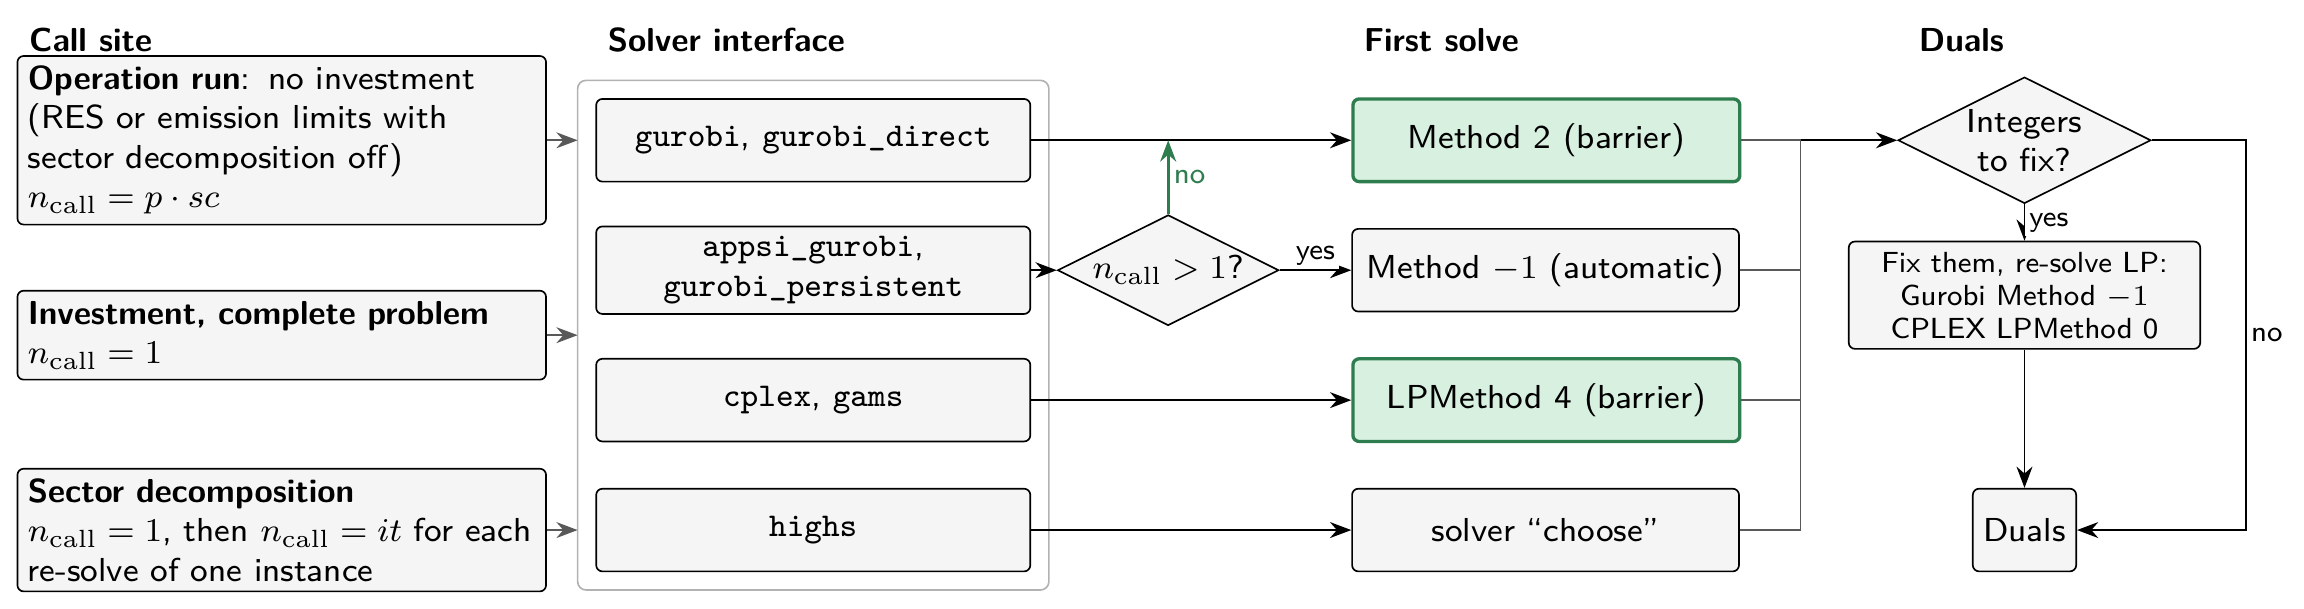
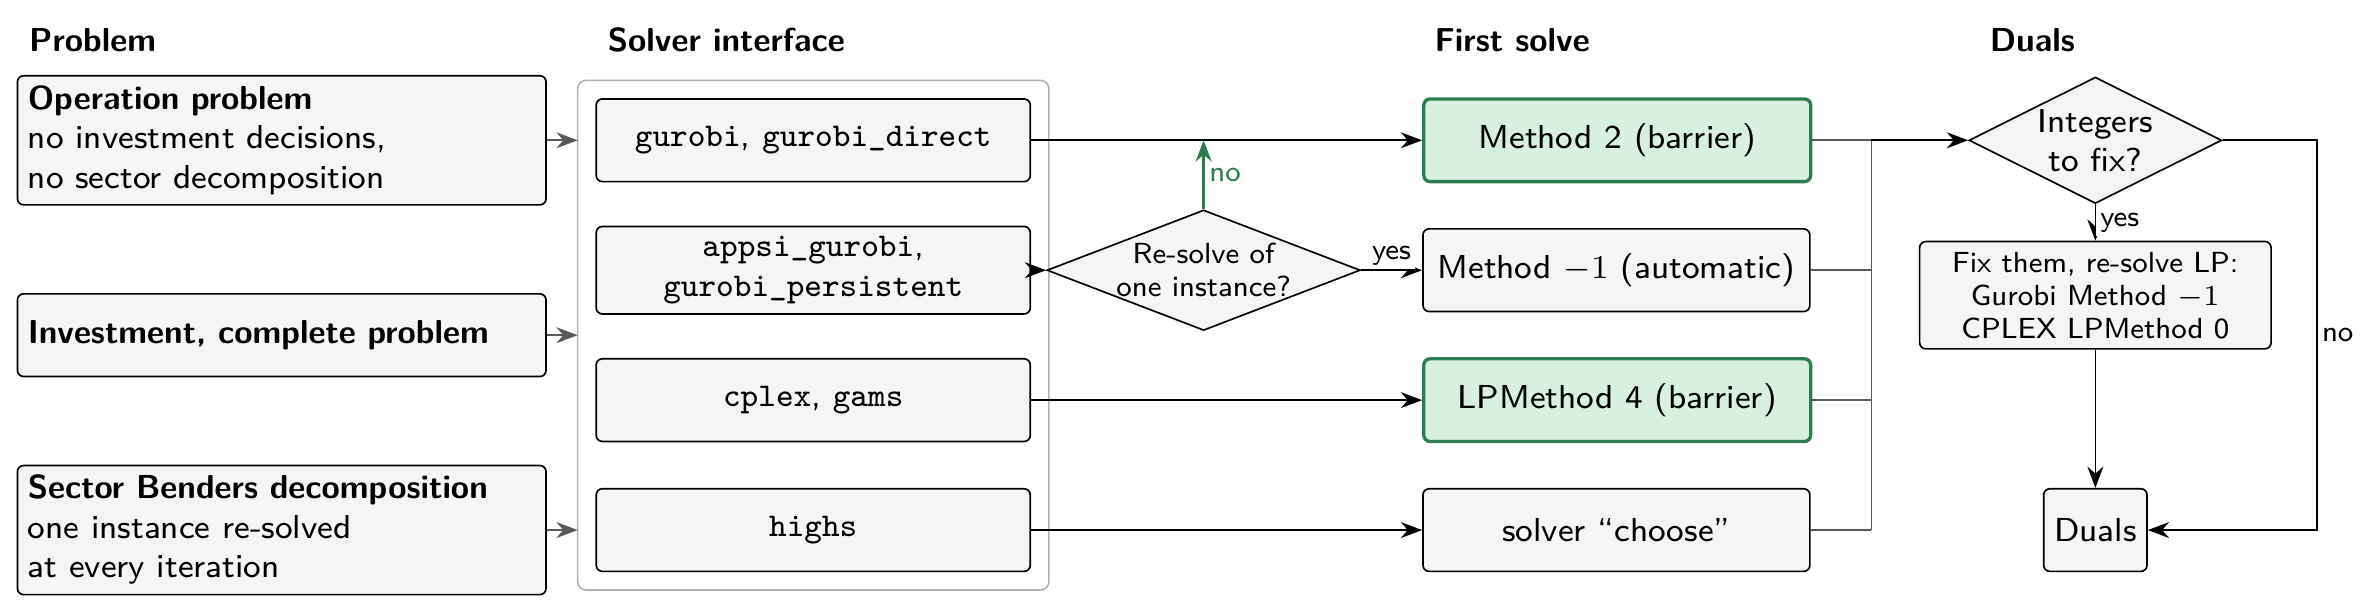
Word the LP algorithm text in the style of IEEE power-systems journals
Rewrite the text this pull request added to SolutionMethods.md, the figure
labels and the CHANGELOG entry. The figure and the text now say "problem"
instead of "call site", and they no longer use the ncall counter.

Correct the bullet on persistent solvers: they use the automatic method for
every later solve of the same instance, which includes the later periods and
scenarios of an operation run, not only the sector decomposition.

diff --git a/doc/md/SolutionMethods.md b/doc/md/SolutionMethods.md
@@ -4,8 +4,8 @@ openTEPES documentation master file, created by Andres Ramos
 
 # Solution Methods
 
-The **openTEPES** model can be solved using different solution methods, depending on the size of the problem and the available computational resources. Two
-choices are made separately: how the problem is decomposed, and how each problem is solved.
+The **openTEPES** model can be solved using different solution methods, depending on the size of the problem and the available computational resources. The
+solution method comprises two choices: the decomposition of the problem and the solver settings for each optimization problem.
 
 ## Decomposition
 
@@ -58,9 +58,9 @@ default (`highs`).
 
 **Persistent (Gurobi only).** `appsi_gurobi` (the APPSI interface, `pyomo.contrib.appsi`) or `gurobi_persistent` (the older interface). The solver instance is
 attached to the model once and kept in memory: the first solve calls `set_instance`, and every later solve pushes only what changed — updated variable bounds,
-and, for `appsi_gurobi`, new or updated parameters and constraints — instead of re-exporting the model. Gurobi can also restart from the previous basis when
-it solves the same instance again with small changes, as in the sector decomposition. Between stages of the stage loop the constraints change, so the gain
-there comes from not re-exporting the model, not from the basis.
+and, for `appsi_gurobi`, new or updated parameters and constraints — instead of re-exporting the model. Gurobi can also restart from the previous basis when the
+same instance is re-solved with small changes, as in the sector Benders decomposition. Between consecutive stages, however, the constraints change, and the gain
+arises from avoiding the export of the model, not from the basis.
 
 **Where it matters.** A single openTEPES case is rarely one solve. The stage loop solves the model once per `(period, scenario, stage)`, then fixes the integer
 and investment decisions and re-solves the relaxed LP to recover the shadow prices (LMPs); the Benders drivers re-solve as they add cuts. On a large model,
@@ -90,25 +90,25 @@ multi-stage or Benders cases on Gurobi with the plain `gurobi` name, you re-expo
 
 ### LP algorithm
 
-openTEPES sets the LP algorithm itself, in `openTEPES_ProblemSolvingTuning.py`. The figure shows the choice for each call site and solver interface; the green
-boxes are barrier.
+The LP algorithm is selected by openTEPES (file `openTEPES_ProblemSolvingTuning.py`). The figure shows the algorithm for each problem type and solver interface;
+green boxes denote the barrier method.
 
 ```{image} ../img/SolverMethod.png
-:alt: LP algorithm chosen by openTEPES for each call site and solver interface
+:alt: LP algorithm selected by openTEPES for each problem type and solver interface
 :align: center
 :width: 100%
 ```
 
-* `gurobi`, `gurobi_direct`, `cplex` and `gams` solve every problem with barrier (`Method=2` for Gurobi, `LPMethod=4` for CPLEX).
-* `appsi_gurobi` and `gurobi_persistent` use barrier for the first solve of an instance. When they solve the same instance again (`ncall > 1`), as the sector
-  decomposition does, they use the automatic method (`Method=-1`), which can restart from the stored basis.
-* `highs` chooses the method itself. Other solvers use their defaults.
-* After a mixed-integer solve, the integer and investment variables are fixed and the LP is solved again for the duals, with the automatic method
-  (`Method=-1` for Gurobi, `LPMethod=0` for CPLEX).
+* `gurobi`, `gurobi_direct`, `cplex` and `gams` use the barrier method for every problem (`Method=2` for Gurobi, `LPMethod=4` for CPLEX).
+* `appsi_gurobi` and `gurobi_persistent` use the barrier method for the first solve of a model instance and the automatic method (`Method=-1`) for every later
+  solve of the same instance, i.e., the later periods and scenarios of an operation problem and the iterations of the sector Benders decomposition.
+* With `highs`, HiGHS selects the algorithm itself; the remaining solvers use their default settings.
+* After a mixed-integer (MIP) solve, the integer and investment variables are fixed, and the resulting LP is re-solved with the automatic method to obtain the
+  dual variables (`Method=-1` for Gurobi, `LPMethod=0` for CPLEX).
 
-Barrier gives the same duals every time the same problem is solved. For an LP, the automatic method of Gurobi runs barrier and simplex in parallel
-(concurrent) and keeps the first to finish. On a degenerate LP the duals then depend on which method won, and they can change from one solve to the
-next.
+The barrier method yields reproducible dual variables, i.e., the same duals whenever the same problem is solved. In contrast, for an LP the automatic method of
+Gurobi runs the barrier and simplex methods concurrently and returns the first solution found. On a degenerate LP the dual solution is not unique; hence, the
+duals depend on the method that finishes first and may change from one solve to the next.
 
-`--crossover 0` skips the crossover step after a Gurobi barrier solve. The solve is faster, but at degenerate points some duals differ from those of a
-basic solution.
+The option `--crossover 0` omits the crossover step after a Gurobi barrier solve. The solution time decreases; however, at degenerate points some duals differ
+from those of a basic solution.

diff --git a/CHANGELOG.md b/CHANGELOG.md
@@ -5,9 +5,9 @@
 - [FIXED] Gurobi and CPLEX solve every period of an operation run with barrier. Before, every period or scenario after the
   first fell to the automatic method (concurrent for Gurobi), because the stage counter was read as a warm restart. Only a
   persistent Gurobi solver re-solving the same instance still uses the automatic method.
-- [ADDED] an LP algorithm section in `SolutionMethods.md`, with a figure of the algorithm openTEPES chooses for each call site and
-  solver interface. The page is now grouped into decomposition and solver settings. It also corrects the persistent solver paragraph: a
-  basis is reused only when the same instance is solved again, not between stages.
+- [ADDED] section on the LP algorithm in `SolutionMethods.md`, with a figure of the algorithm selected for each problem type and solver
+  interface. The page is grouped into decomposition and solver settings, and the persistent-solver paragraph is corrected: the basis is
+  reused only when the same instance is re-solved, not between stages.
 - [ADDED] optional file `oT_Data_GenerationInvestmentFactor` with a factor on the investment cost of each candidate unit by
   installation period, e.g., for learning rates. Each installed capacity keeps the factor of its period. Generation units only.
 - [FIXED] MaxCapacity as the maximum between MaxPowerElec and MaxCharge for any load level. This parameter upper bounds the outflows
